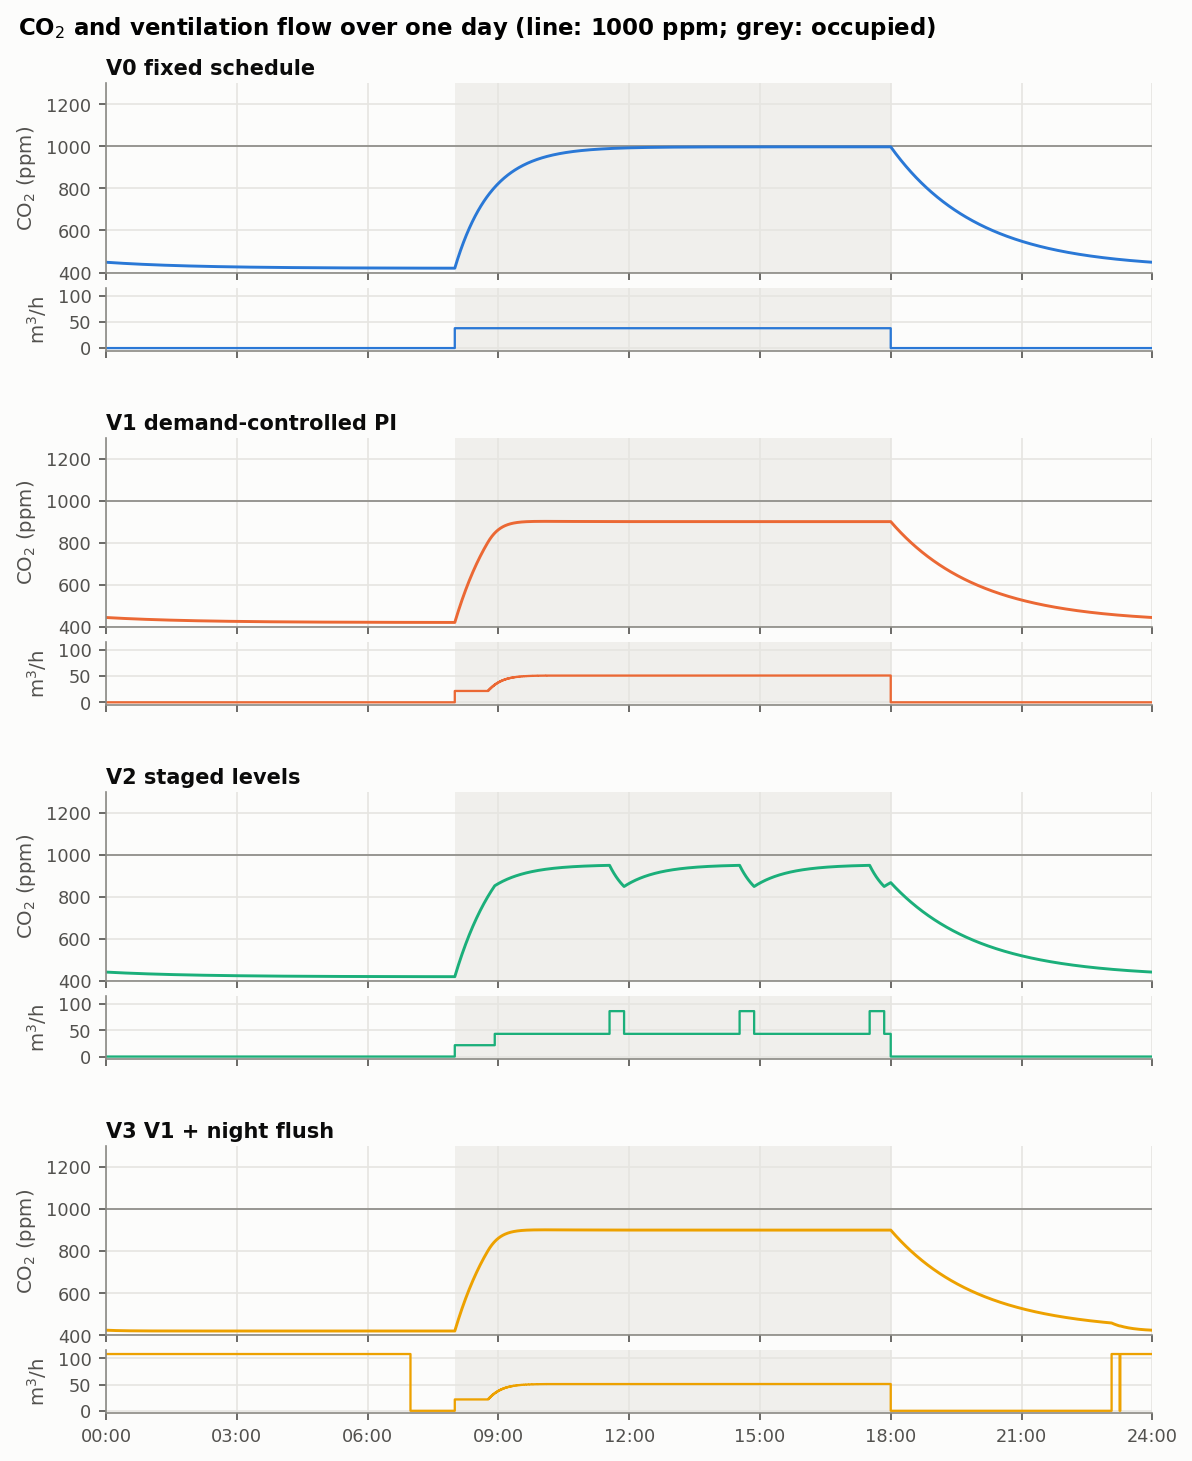
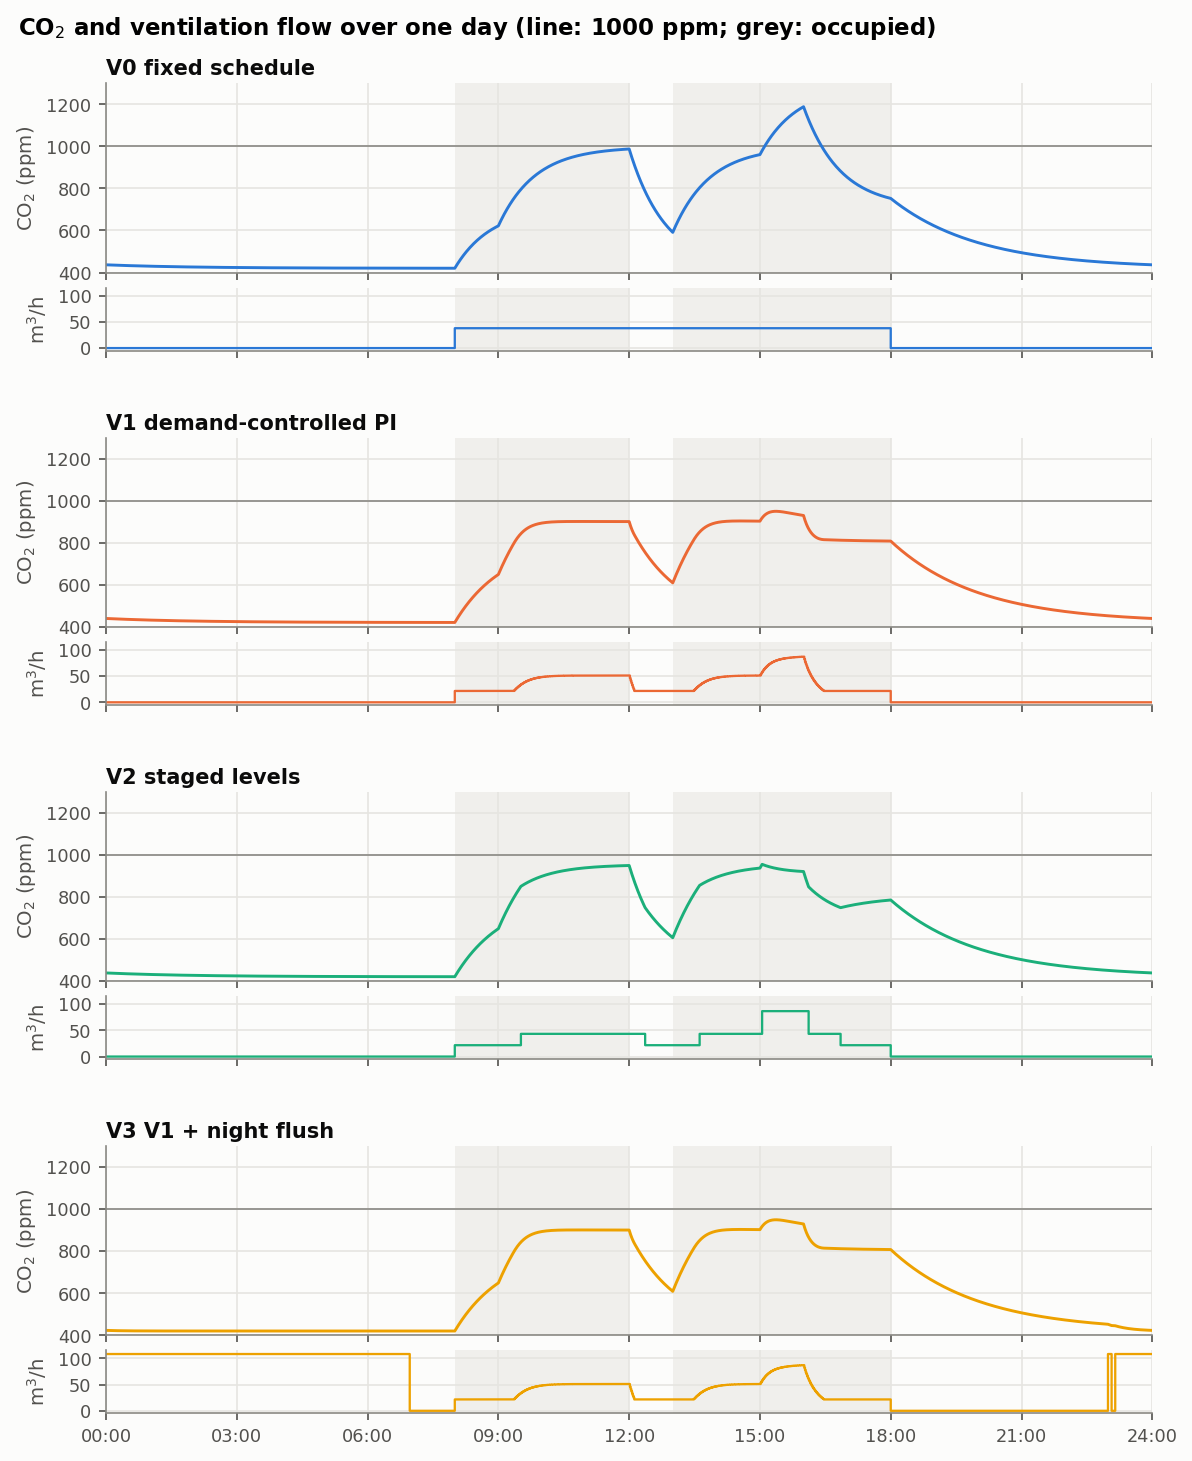
Add variable-occupancy scenario and complete the ventilation study
Demand-controlled ventilation (continuous PI or staged levels) meets the CO2
requirement under variable occupancy, where the fixed schedule exceeds it for
3.9 h; a fixed flow sized for the peak needs 78 % more air and 8 % more energy.
Night flush at design flow costs more fan energy than it saves; it pays at
about half the flow (exploratory sweep). Outcomes recorded against the
expectations written beforehand (D28).

diff --git a/scripts/compare_ventilation.py b/scripts/compare_ventilation.py
@@ -1,8 +1,11 @@
-"""Ventilation strategies (decisions D23-D26, fixed before these runs).
+"""Ventilation strategies (decisions D23-D27, fixed before these runs).
 
 Every strategy runs with the same temperature and humidity control (PI with sigma-delta low-load
 handling and the coil-temperature cascade on the fan), so differences come from ventilation only.
 Energy is reported for the air conditioner and for the ventilation fan separately.
+
+Two occupancy scenarios: two people throughout 8-18 h (the design case), and a variable office
+day (D27). A last, exploratory table varies the night-flush flow.
 
     python scripts/compare_ventilation.py
 """
@@ -17,7 +20,7 @@ from roomsim.ac_unit import ACUnit
 from roomsim.controllers import (CoilCascade, DemandControlledPI, NightFlush,
                                  ScheduledVentilation, StagedVentilation, VentilationSchedule,
                                  WithVentilation, make_pi_controller)
-from roomsim.inputs import DAY, HOUR, SummerScenario
+from roomsim.inputs import DAY, HOUR, VARIABLE_OCCUPANCY, SummerScenario
 from roomsim.metrics import compute
 from roomsim.params import RoomParams
 from roomsim.plant import IDX_V_VENT, equilibrium_state
@@ -28,50 +31,73 @@ from roomsim.ventilation import VentilationFan
 FIG = Path(__file__).resolve().parents[1] / "figures"
 WARMUP_DAYS, DAYS = 3, 3
 CO2_LIMIT = 1000.0
+P, UNIT, FAN = RoomParams(), ACUnit(), VentilationFan()
+
+
+def thermal():
+    return CoilCascade(make_pi_controller("sigma-delta", P, UNIT), RH_set=0.55)
+
+
+def run(scenario, strategy):
+    x0 = equilibrium_state(26.0, 26.0, float(scenario.W_o(0.0)))
+    r = simulate(P, scenario, x0, (WARMUP_DAYS + DAYS) * DAY,
+                 controller=WithVentilation(thermal(), strategy), unit=UNIT)
+    return r.window(WARMUP_DAYS * DAY)
+
+
+def row(name, r):
+    m = compute(r, 25.0)
+    occ = np.asarray(r.d.n_occ)[:-1] > 0
+    C = r.CO2[:-1]
+    E_fan = FAN.energy_kWh(r)
+    air = float(np.sum(r.u[:-1, IDX_V_VENT]) * r.dt)
+    return (f"| {name} | {m.energy_kWh:.2f} | {E_fan:.3f} | {m.energy_kWh + E_fan:.2f} | "
+            f"{air:.0f} | {C[occ].mean():.0f} | {C[occ].max():.0f} | "
+            f"{np.sum(C[occ] > CO2_LIMIT) * r.dt / HOUR:.2f} | {m.Kh_outside_occ:.3f} |")
+
+
+HEADER = ["| Strategy | AC (kWh) | Fan (kWh) | Total (kWh) | Air (m³) | CO₂ mean occ. (ppm) | "
+          "CO₂ max occ. (ppm) | h > 1000 ppm | K·h outside band |", "|" + "---|" * 9]
+
+
+def strategies(S):
+    return {
+        "No ventilation (infiltration only)": ScheduledVentilation(VentilationSchedule(V_occupied=0.0)),
+        "V0 fixed schedule": ScheduledVentilation(VentilationSchedule()),
+        "V1 demand-controlled PI": DemandControlledPI(P),
+        "V2 staged levels": StagedVentilation(),
+        "V3 V1 + night flush": NightFlush(DemandControlledPI(P), outdoor=S.T_o),
+    }
 
 
 def main() -> None:
     FIG.mkdir(exist_ok=True)
     apply_style()
-    p, unit, S, fan = RoomParams(), ACUnit(), SummerScenario(), VentilationFan()
-    x0 = equilibrium_state(26.0, 26.0, float(S.W_o(0.0)))
+    out = []
+    scenarios = {"Two people, 8-18 h (design case)": SummerScenario(),
+                 "Variable occupancy (D27)": SummerScenario(occupancy=VARIABLE_OCCUPANCY)}
+    last_results = None
+    for label, S in scenarios.items():
+        results = {name: run(S, strat) for name, strat in strategies(S).items()}
+        out += [f"### {label}", ""] + HEADER + [row(n, r) for n, r in results.items()] + [""]
+        last_results = results
 
-    def thermal():
-        return CoilCascade(make_pi_controller("sigma-delta", p, unit), RH_set=0.55)
-
-    strategies = {
-        "No ventilation (infiltration only)": ScheduledVentilation(VentilationSchedule(V_occupied=0.0)),
-        "V0 fixed schedule": ScheduledVentilation(VentilationSchedule()),
-        "V1 demand-controlled PI": DemandControlledPI(p),
-        "V2 staged levels": StagedVentilation(),
-        "V3 V1 + night flush": NightFlush(DemandControlledPI(p), outdoor=S.T_o),
-    }
-    results = {}
-    for name, strategy in strategies.items():
-        r = simulate(p, S, x0, (WARMUP_DAYS + DAYS) * DAY,
-                     controller=WithVentilation(thermal(), strategy), unit=unit)
-        results[name] = r.window(WARMUP_DAYS * DAY)
-
-    lines = ["| Strategy | AC (kWh) | Fan (kWh) | Total (kWh) | Air (m³) | CO₂ mean occ. (ppm) | "
-             "CO₂ max occ. (ppm) | h > 1000 ppm | RH mean occ. (%) | K·h outside band |",
-             "|" + "---|" * 10]
-    for name, r in results.items():
-        m = compute(r, 25.0)
-        occ = np.asarray(r.d.n_occ)[:-1] > 0
-        C = r.CO2[:-1]
-        E_fan = fan.energy_kWh(r)
-        air = float(np.sum(r.u[:-1, IDX_V_VENT]) * r.dt)
-        lines.append(f"| {name} | {m.energy_kWh:.2f} | {E_fan:.3f} | {m.energy_kWh + E_fan:.2f} | "
-                     f"{air:.0f} | {C[occ].mean():.0f} | {C[occ].max():.0f} | "
-                     f"{np.sum(C[occ] > CO2_LIMIT) * r.dt / HOUR:.2f} | {m.RH_mean_occ:.1f} | "
-                     f"{m.Kh_outside_occ:.3f} |")
-    table = "\n".join(lines)
-    print(f"Three days after {WARMUP_DAYS} warm-up days\n")
-    print(table)
-    (FIG / "ventilation_comparison.md").write_text(table + "\n", encoding="utf-8")
+    S = scenarios["Variable occupancy (D27)"]
+    # exploratory: a fixed flow large enough for the 3-person peak (CO2 at 1000 ppm in steady state)
+    V_peak = 3 * P.co2_person * 1e6 / (CO2_LIMIT - 420.0) - P.V_dot_inf
+    out += ["### Fixed schedule sized for the peak (exploratory, variable occupancy)", ""] + HEADER
+    out.append(row(f"V0 sized for 3 people ({V_peak * 3600:.0f} m³/h)",
+                   run(S, ScheduledVentilation(VentilationSchedule(V_occupied=V_peak)))))
+    out += ["", "### Night-flush flow (exploratory, design case)", ""] + HEADER
+    for V in (0.01, 0.015, 0.02, 0.03):
+        r = run(SummerScenario(), NightFlush(DemandControlledPI(P), outdoor=S.T_o, V_flush=V))
+        out.append(row(f"V3 with flush at {V * 3600:.0f} m³/h", r))
+    text = "\n".join(out)
+    print(text)
+    (FIG / "ventilation_comparison.md").write_text(text + "\n", encoding="utf-8")
 
     shown = ("V0 fixed schedule", "V1 demand-controlled PI", "V2 staged levels", "V3 V1 + night flush")
-    last_day = {n: results[n].window((WARMUP_DAYS + DAYS - 1) * DAY) for n in shown}
+    last_day = {n: last_results[n].window((WARMUP_DAYS + DAYS - 1) * DAY) for n in shown}
     plot_ventilation_day(last_day, CO2_LIMIT, FIG / "ventilation_day.png")
     print(f"\nFigures written to {FIG}")
 

diff --git a/src/roomsim/inputs.py b/src/roomsim/inputs.py
@@ -54,7 +54,8 @@ class SummerScenario:
           T_o; because p_ws is strongly nonlinear, W_o then doubles between 3 h and 15 h
           (0.008 -> 0.0165 kg/kg), which overstates the afternoon latent load.
     G_sol half-sine between sunrise and sunset, zero at night.
-    n_occ step function, occupied on [occ_start, occ_end).
+    n_occ step function, occupied on [occ_start, occ_end) with n_people; or, if ``occupancy`` is
+          given, a profile of (start_h, end_h, people) intervals (zero outside them).
     """
 
     T_mean: float = 26.0
@@ -69,6 +70,7 @@ class SummerScenario:
     occ_start_h: float = 8.0
     occ_end_h: float = 18.0
     C_o: float = 420.0
+    occupancy: tuple | None = None
 
     def T_o(self, t):
         t = np.asarray(t, dtype=float)
@@ -88,8 +90,13 @@ class SummerScenario:
 
     def n_occ(self, t):
         h = hour_of_day(t)
-        occupied = (h >= self.occ_start_h) & (h < self.occ_end_h)
-        return np.where(occupied, self.n_people, 0.0)
+        if self.occupancy is None:
+            occupied = (h >= self.occ_start_h) & (h < self.occ_end_h)
+            return np.where(occupied, self.n_people, 0.0)
+        n = np.zeros_like(h)
+        for start, end, people in self.occupancy:
+            n = np.where((h >= start) & (h < end), people, n)
+        return n
 
     def __call__(self, t) -> Disturbances:
         ones = np.ones_like(np.asarray(t, dtype=float))
@@ -114,3 +121,8 @@ class ConstantInputs:
         ones = np.ones_like(np.asarray(t, dtype=float))
         return Disturbances(self.T_o * ones, self.W_o * ones, self.G_sol * ones,
                             self.n_occ * ones, self.C_o * ones)
+
+
+# Office day with variable occupancy (decision D27): late arrival, lunch, a meeting, early leave.
+VARIABLE_OCCUPANCY = ((8.0, 9.0, 1.0), (9.0, 12.0, 2.0), (13.0, 15.0, 2.0), (15.0, 16.0, 3.0),
+                      (16.0, 18.0, 1.0))

diff --git a/tests/test_inputs.py b/tests/test_inputs.py
@@ -72,3 +72,12 @@ def test_constant_inputs_shape():
     d = ConstantInputs(T_o=30.0)(np.zeros(5))
     assert d.T_o.shape == (5,)
     assert np.all(d.T_o == 30.0)
+
+
+def test_variable_occupancy_profile():
+    from roomsim.inputs import VARIABLE_OCCUPANCY
+    S_var = SummerScenario(occupancy=VARIABLE_OCCUPANCY)
+    hours = np.array([7.5, 8.5, 10.0, 12.5, 14.0, 15.5, 17.0, 18.5])
+    assert list(S_var.n_occ(hours * HOUR)) == [0, 1, 2, 0, 2, 3, 1, 0]
+    t = np.arange(0.0, DAY, 60.0)
+    assert S_var.n_occ(t).mean() * 24 / 10 == pytest.approx(1.6)     # mean over 8-18 h

diff --git a/README.md b/README.md
@@ -197,9 +197,50 @@ Three days, ventilation during occupied hours, tariff 0.15 / 0.60 EUR/kWh with t
 - **Robustness**: 20 % errors in five model parameters, or a forecast 2 K too warm with 30 % less
   sun, change the energy by less than 1 % and keep the comfort criterion. The Kalman disturbance state absorbs both.
 
+### Ventilation
+
+Ventilation strategies, all with the same temperature and humidity control (PI with sigma-delta
+handling and the coil cascade), so differences come from ventilation only. The fan follows the
+affinity law (30 W at 108 m³/h). The requirement is CO₂ ≤ 1 000 ppm while occupied. Strategies,
+parameters, requirement and expected outcomes were committed before the runs
+([decisions D23-D27](docs/decisions.md)).
+
+- **V0:** fixed schedule, 38 m³/h, close to the ASHRAE 62.1 rate for two people.
+- **V1:** PI on measured CO₂, set point 900 ppm, SIMC-tuned from the CO₂ balance.
+- **V2:** three fan levels switched on CO₂ with hysteresis and a 5-minute dwell. This is the
+  generic form of staged demand-controlled ventilation.
+- **V3:** V1 plus mechanical night flush when the outdoor air is at least 2 K cooler.
+
+Variable office day (late arrival, empty at lunch, a 3-person meeting at 15 h, early leave):
+
+| Strategy | Total energy (kWh) | Air (m³) | CO₂ max occ. (ppm) | h > 1 000 ppm |
+|---|---|---|---|---|
+| V0 fixed schedule (sized for 2 people) | 7.34 | 1134 | 1189 | 3.9 |
+| V0 sized for the 3-person peak (exploratory) | 7.96 | 2095 | 966 | 0.0 |
+| V1 demand-controlled PI | 7.40 | 1176 | 949 | 0.0 |
+| V2 staged levels | 7.42 | 1180 | 955 | 0.0 |
+| V3 V1 + night flush at 108 m³/h | 7.45 | 3736 | 949 | 0.0 |
+
+![Ventilation over one day](figures/ventilation_day.png)
+
+- **Demand control earns its keep only when occupancy varies.**
+  - With two people present all day, V1 and V2 used more air than the fixed schedule (1 438
+    against 1 134 m³). There was nothing to exploit, and their 900 ppm set point is stricter
+    than where the fixed flow ends up (≈ 1 000 ppm).
+  - With variable occupancy, the fixed flow breaks the requirement during and after the
+    meeting.
+  - A fixed flow sized for the peak meets it, but with 78 % more air and 8 % more energy than
+    demand control.
+- **Staged levels perform like the continuous PI** (energy within 0.3 %, peak CO₂ within 6 ppm).
+  Three levels are enough here; the continuous loop adds nothing measurable.
+- **Night flush pays only at reduced flow.** At the full 108 m³/h it saves 0.66 kWh of
+  compressor energy but the fan uses 0.71 kWh. An exploratory sweep of the flush flow (design
+  case) gives the lowest total at 54-72 m³/h: 3.6 % below V1, because fan power falls with the
+  cube of the flow while the free cooling falls roughly linearly.
+
 ## Verification
 
-All checks run in `pytest` (140 tests, about a minute and a half). The code was also audited
+All checks run in `pytest` (151 tests, about a minute and a half). The code was also audited
 from scratch, without the development history; its findings and fixes are
 in [docs/decisions.md](docs/decisions.md) (D20-D22).
 
@@ -267,12 +308,15 @@ src/roomsim/
   control_model.py linear RC model for the controllers, exact discretisation
   estimation.py    Kalman filter with a disturbance state (offset-free)
   tariff.py        time-of-use electricity price
+  ventilation.py   ventilation fan power (affinity law)
   controllers/     on/off thermostat, discrete PI with anti-windup, low-load handlers,
-                   humidity-aware fan control (direct and cascade), economic MPC
+                   humidity-aware fan control (direct and cascade), economic MPC,
+                   ventilation strategies (scheduled, CO2 PI, staged, night flush)
 scripts/run_baseline.py         free-floating baseline and verification figures
 scripts/compare_controllers.py  controller comparison table and figures
 scripts/compare_humidity.py     humidity-aware fan control and robustness to the unit
 scripts/compare_mpc.py          MPC against PI, tariff and robustness cases
+scripts/compare_ventilation.py  ventilation strategies, two occupancy scenarios
 tests/
 docs/specification.md
 ```
@@ -286,9 +330,10 @@ python scripts/run_baseline.py
 python scripts/compare_controllers.py
 python scripts/compare_humidity.py
 python scripts/compare_mpc.py
+python scripts/compare_ventilation.py
 ```
 
 ## Roadmap
 
-1. Ventilation-level strategies driven by CO2.
-2. MPC with humidity in the model, so that the planner can trade sensible against latent load.
+1. MPC with humidity in the model, so that the planner can trade sensible against latent load.
+2. Ventilation inside the MPC, so that night flush and demand control are planned together.

diff --git a/figures/ventilation_comparison.md b/figures/ventilation_comparison.md
@@ -1,7 +1,34 @@
-| Strategy | AC (kWh) | Fan (kWh) | Total (kWh) | Air (m³) | CO₂ mean occ. (ppm) | CO₂ max occ. (ppm) | h > 1000 ppm | RH mean occ. (%) | K·h outside band |
-|---|---|---|---|---|---|---|---|---|---|
-| No ventilation (infiltration only) | 7.08 | 0.000 | 7.08 | 0 | 1530 | 1797 | 26.75 | 55.2 | 0.000 |
-| V0 fixed schedule | 7.55 | 0.039 | 7.59 | 1134 | 949 | 998 | 0.00 | 55.2 | 0.000 |
-| V1 demand-controlled PI | 7.72 | 0.085 | 7.80 | 1438 | 877 | 901 | 0.00 | 55.2 | 0.000 |
-| V2 staged levels | 7.69 | 0.093 | 7.79 | 1366 | 896 | 950 | 0.00 | 55.2 | 0.000 |
-| V3 V1 + night flush | 7.06 | 0.796 | 7.85 | 3997 | 877 | 901 | 0.00 | 55.2 | 0.000 |
+### Two people, 8-18 h (design case)
+
+| Strategy | AC (kWh) | Fan (kWh) | Total (kWh) | Air (m³) | CO₂ mean occ. (ppm) | CO₂ max occ. (ppm) | h > 1000 ppm | K·h outside band |
+|---|---|---|---|---|---|---|---|---|
+| No ventilation (infiltration only) | 7.08 | 0.000 | 7.08 | 0 | 1530 | 1797 | 26.75 | 0.000 |
+| V0 fixed schedule | 7.55 | 0.039 | 7.59 | 1134 | 949 | 998 | 0.00 | 0.000 |
+| V1 demand-controlled PI | 7.72 | 0.085 | 7.80 | 1438 | 877 | 901 | 0.00 | 0.000 |
+| V2 staged levels | 7.69 | 0.093 | 7.79 | 1366 | 896 | 950 | 0.00 | 0.000 |
+| V3 V1 + night flush | 7.06 | 0.796 | 7.85 | 3997 | 877 | 901 | 0.00 | 0.000 |
+
+### Variable occupancy (D27)
+
+| Strategy | AC (kWh) | Fan (kWh) | Total (kWh) | Air (m³) | CO₂ mean occ. (ppm) | CO₂ max occ. (ppm) | h > 1000 ppm | K·h outside band |
+|---|---|---|---|---|---|---|---|---|
+| No ventilation (infiltration only) | 6.80 | 0.000 | 6.80 | 0 | 1332 | 1924 | 22.05 | 0.000 |
+| V0 fixed schedule | 7.30 | 0.039 | 7.34 | 1134 | 865 | 1189 | 3.90 | 0.000 |
+| V1 demand-controlled PI | 7.32 | 0.077 | 7.40 | 1176 | 826 | 949 | 0.00 | 0.000 |
+| V2 staged levels | 7.34 | 0.081 | 7.42 | 1180 | 827 | 955 | 0.00 | 0.000 |
+| V3 V1 + night flush | 6.66 | 0.788 | 7.45 | 3736 | 826 | 949 | 0.00 | 0.000 |
+
+### Fixed schedule sized for the peak (exploratory, variable occupancy)
+
+| Strategy | AC (kWh) | Fan (kWh) | Total (kWh) | Air (m³) | CO₂ mean occ. (ppm) | CO₂ max occ. (ppm) | h > 1000 ppm | K·h outside band |
+|---|---|---|---|---|---|---|---|---|
+| V0 sized for 3 people (70 m³/h) | 7.71 | 0.243 | 7.96 | 2095 | 731 | 966 | 0.00 | 0.000 |
+
+### Night-flush flow (exploratory, design case)
+
+| Strategy | AC (kWh) | Fan (kWh) | Total (kWh) | Air (m³) | CO₂ mean occ. (ppm) | CO₂ max occ. (ppm) | h > 1000 ppm | K·h outside band |
+|---|---|---|---|---|---|---|---|---|
+| V3 with flush at 36 m³/h | 7.50 | 0.112 | 7.61 | 2319 | 877 | 901 | 0.00 | 0.000 |
+| V3 with flush at 54 m³/h | 7.35 | 0.175 | 7.52 | 2742 | 877 | 901 | 0.00 | 0.000 |
+| V3 with flush at 72 m³/h | 7.23 | 0.297 | 7.53 | 3156 | 877 | 901 | 0.00 | 0.000 |
+| V3 with flush at 108 m³/h | 7.06 | 0.796 | 7.85 | 3997 | 877 | 901 | 0.00 | 0.000 |

diff --git a/docs/decisions.md b/docs/decisions.md
@@ -232,6 +232,18 @@ to the answer. Changes made after seeing results are added as separate entries.
   (0.01-0.03 m³/s), because fan power scales with the cube of the flow. V3 itself stays as
   defined.
 
+### D28. Ventilation results against the expectations
+- **Timing:** after the runs. This entry only records outcomes; no parameter was changed.
+- **D27 expectation:** the fixed schedule exceeds 1 000 ppm during the meeting, and demand
+  control meets the requirement with less air on average. Partly met:
+  - the fixed schedule exceeded the limit for 3.9 h (peak 1 189 ppm), and demand control met
+    the requirement;
+  - "less air" holds only against a fixed flow sized for the peak (1 176 against 2 095 m³).
+    Against the 2-person fixed flow, demand control used 4 % more air.
+- **Unexpected:** night flush at the design flow costs more fan energy than it saves. It pays at
+  roughly half that flow (exploratory sweep). V3 was not redefined; the sweep is reported
+  separately.
+
 ## Findings of the final audit
 
 A reviewer with no access to the development history read the code and docs and tried to break
